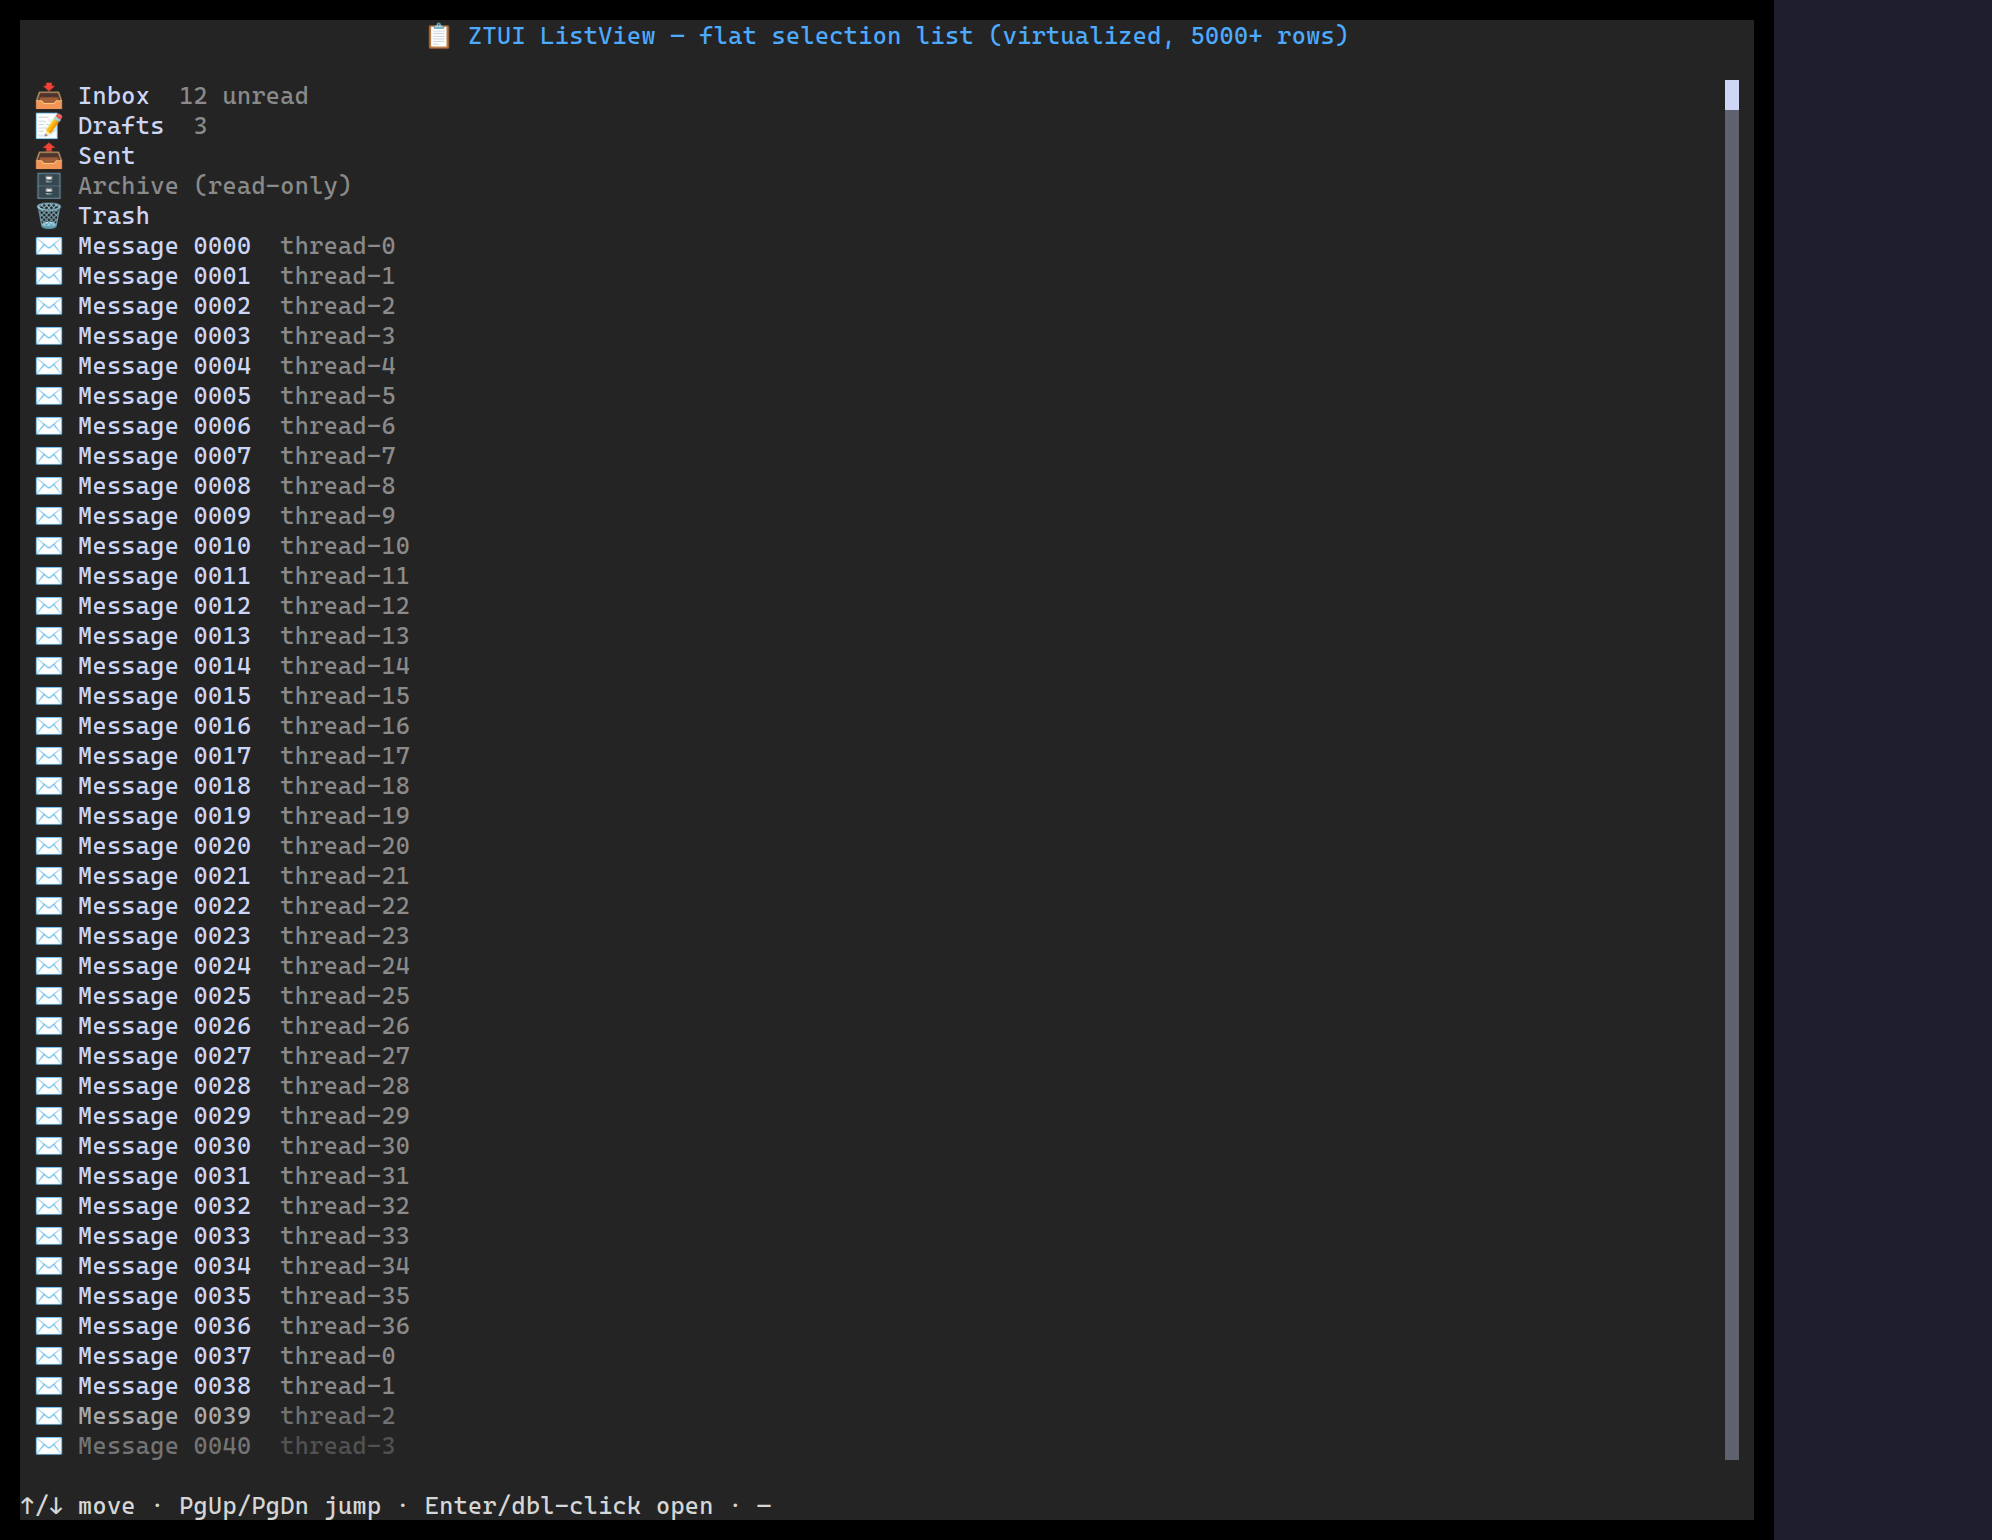
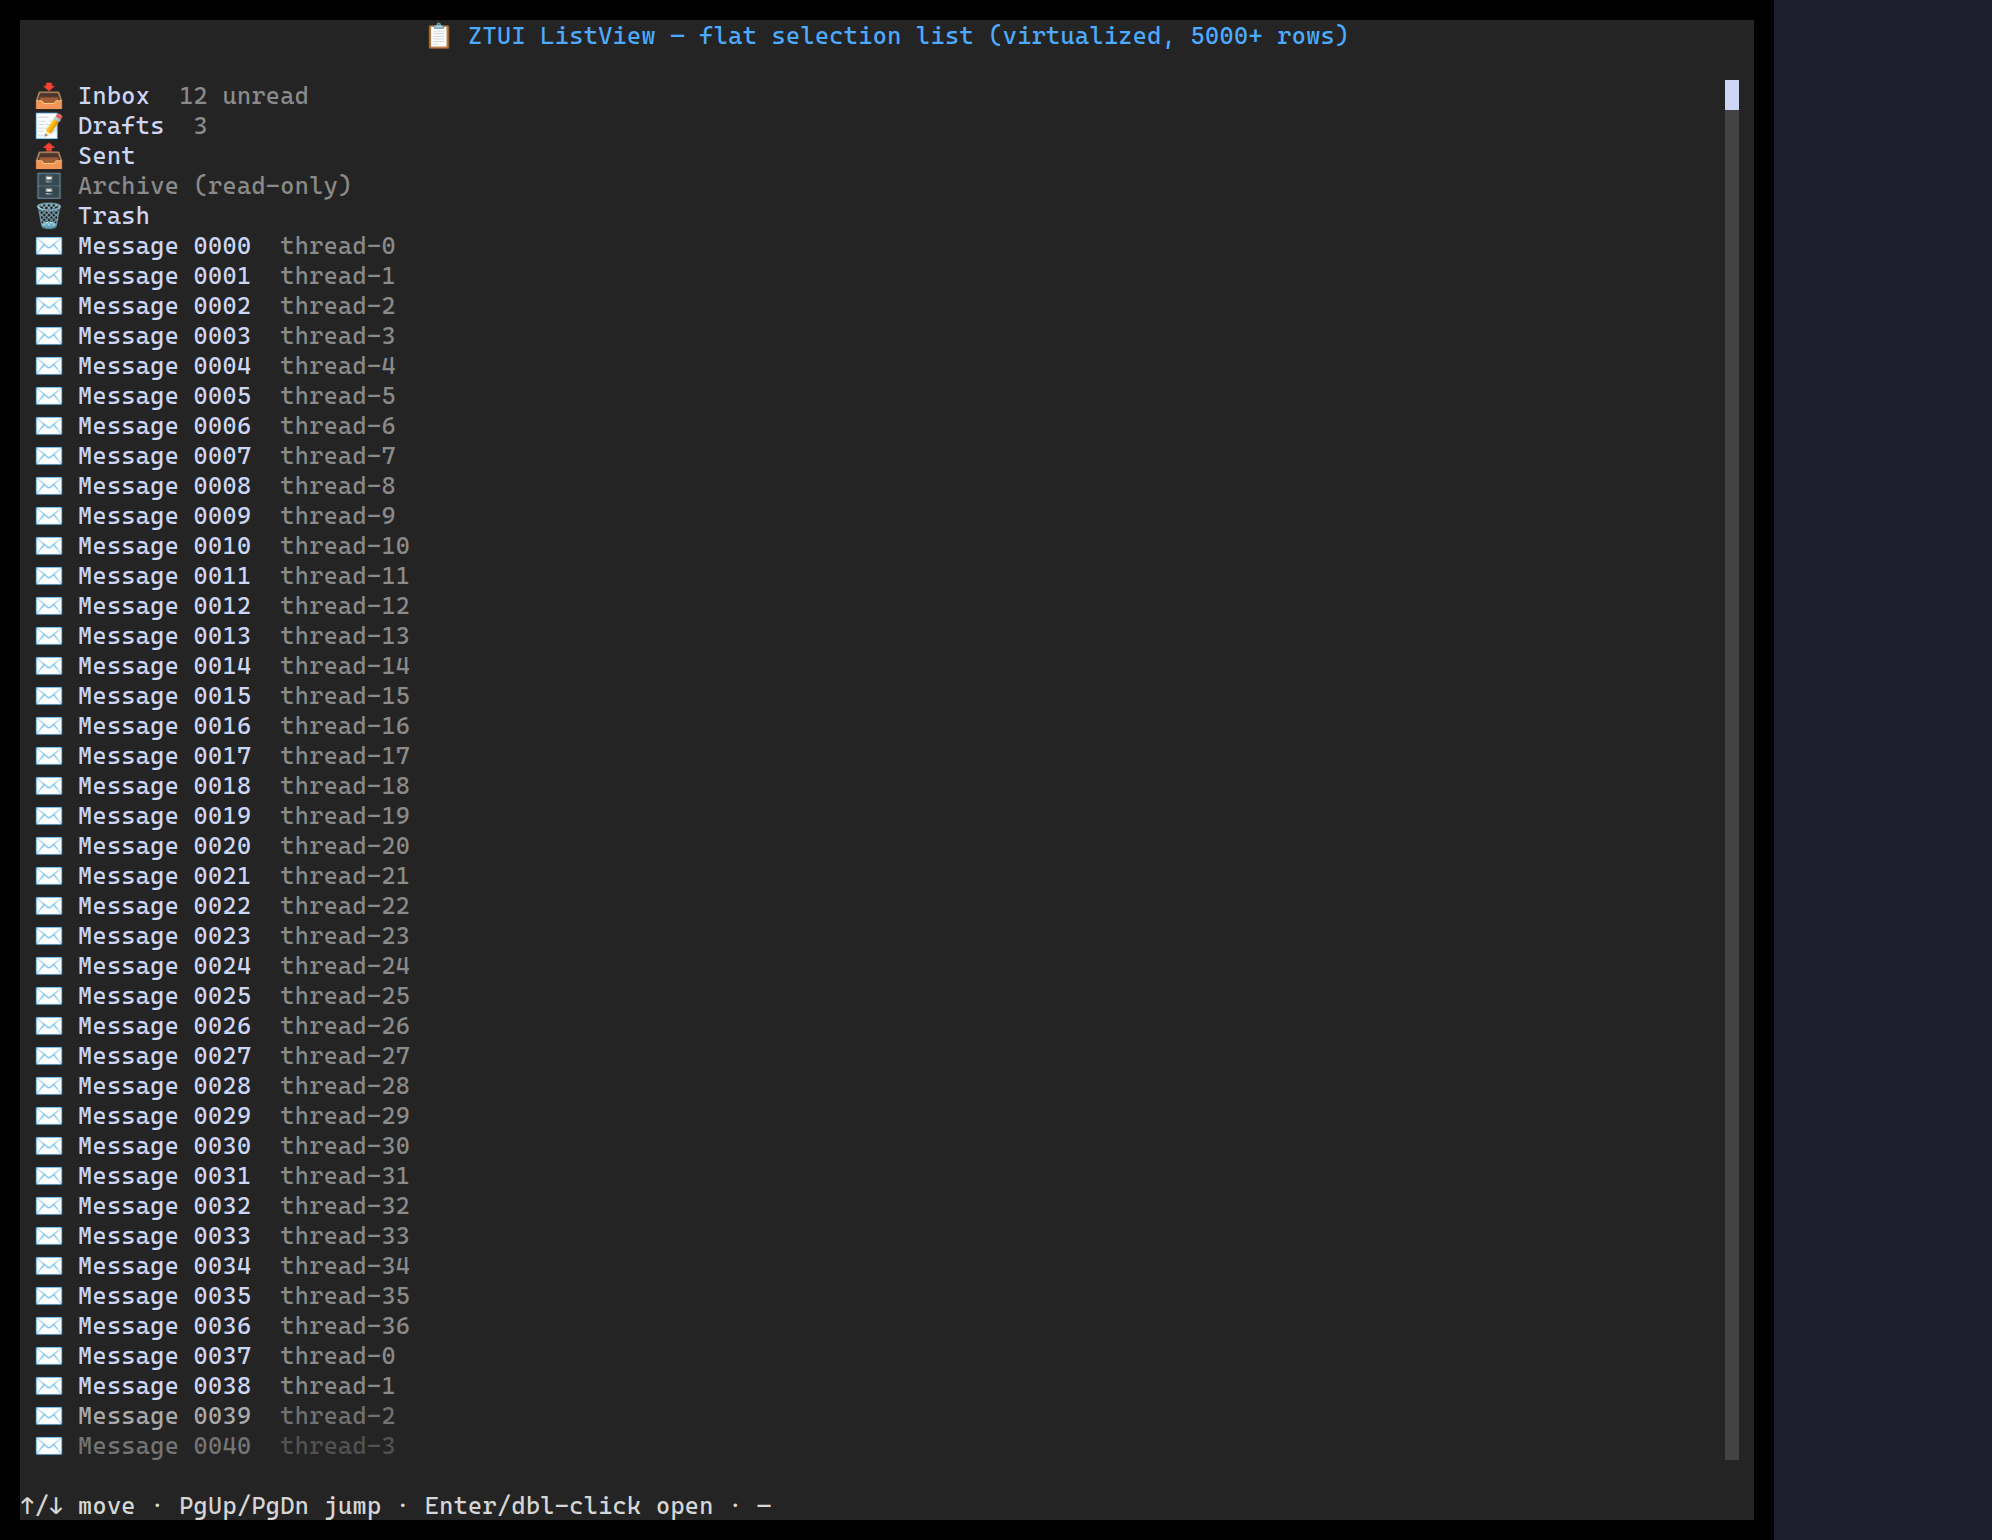
fix(scrollbar): solid dimmed track instead of a shade glyph
The scrollbar track was painted with a `░` light-shade character, which renders
unevenly and speckled across many terminal fonts (it looked poor). Replace it
with a solid background: the track is now a space cell whose background is the
thumb colour blended ~30% toward the widget background — a faint, even solid
gutter that's clearly dimmer than the thumb and adapts to the theme. The thumb
stays a solid `█` bar.

Adds a shared helper `scrollbarTrackStyle(widget)` (src/dom/scrollbar.ts) and
applies it consistently across every scrollbar-drawing widget: the Scrollable
mixin (borderless bars; bordered bars keep their crisp line glyphs) and the five
data widgets that draw their own bar — Table, Tree, ListView, SelectionList and
RichLog.

(The near-left-edge click "leak" reported alongside this is a separate hit-test
off-by-one and is intentionally left for later per the request.)

Tests: ListView asserts the track is a space with a non-default background and no
`░`; the RichLog gutter test now checks the scrollbar cell is a thumb or a solid
track cell. Regenerated the affected gallery screenshots.

Changed region(s): [[0.8404, 0.0623, 0.8715, 0.9351]]

diff --git a/src/dom/scrollbar.ts b/src/dom/scrollbar.ts
@@ -1,0 +1,28 @@
+import { mix, parseColor, rgbStr } from "../render/color.ts";
+import { Style } from "../render/style.ts";
+import type { Widget } from "./widget.ts";
+
+/**
+ * Background-fill style for a scrollbar **track** (the gutter the thumb slides
+ * in). Callers paint it with a space glyph so it reads as a clean solid shade
+ * rather than a `░`/`▒` shaded character — those render unevenly (speckled, with
+ * inconsistent weight) across terminal fonts, which looked poor. The colour is
+ * the thumb colour blended most of the way toward the widget background, giving a
+ * faint solid gutter that stays dimmer than the thumb and adapts to the theme.
+ *
+ * Mirrors how every scrollbar derives its thumb colour (`borderColor`/`color`,
+ * falling back to the `$dimmed` token when unset) so the track always has a
+ * concrete colour to dim, even when the thumb itself uses the terminal default.
+ */
+export function scrollbarTrackStyle(widget: Widget): Style {
+  const cs = widget.computedStyle;
+  let fg = cs.borderColor || cs.color;
+  if (!fg || fg === "default") {
+    fg = widget.app?.cssResolver.resolveVariable(widget, "$dimmed") || "gray";
+  }
+  const bg = widget.findResolvedBackground();
+  const fgRGB = parseColor(fg)?.rgb;
+  const bgRGB = parseColor(bg)?.rgb;
+  const track = fgRGB && bgRGB ? rgbStr(mix(bgRGB, fgRGB, 0.3)) : fg;
+  return new Style({ background: track });
+}

diff --git a/src/dom/scrollable.ts b/src/dom/scrollable.ts
@@ -5,6 +5,7 @@ import { Size } from "../geometry/size.ts";
 import type { ScreenBuffer } from "../render/buffer.ts";
 import { Style } from "../render/style.ts";
 import { fadeScrollEdges } from "./scroll-fade.ts";
+import { scrollbarTrackStyle } from "./scrollbar.ts";
 import { Widget } from "./widget.ts";
 
 /** @internal Mixin base constructor type. */
@@ -387,6 +388,10 @@ export function Scrollable<TBase extends Constructor<Widget>>(
       const fg = this.computedStyle.borderColor || this.computedStyle.color || "default";
       const bg = this.computedStyle.background || "default";
       const style = new Style({ color: fg, background: bg });
+      // Borderless scrollbars fill the track with a solid dimmed background (a
+      // space glyph) instead of a `░` shade character, which renders poorly in
+      // many fonts. Bordered bars keep the crisp line glyphs on the frame.
+      const track = scrollbarTrackStyle(this);
 
       const { showY, showX } = this.scrollbarVisibility();
 
@@ -409,8 +414,9 @@ export function Scrollable<TBase extends Constructor<Widget>>(
 
           for (let y = startY; y <= endY; y++) {
             const isThumb = y >= thumbStart && y < thumbStart + thumbHeight;
-            const char = isThumb ? "█" : hasBorder ? "│" : "░";
-            buffer.setCell(x, y, char, style);
+            if (isThumb) buffer.setCell(x, y, "█", style);
+            else if (hasBorder) buffer.setCell(x, y, "│", style);
+            else buffer.setCell(x, y, " ", track);
           }
         }
       }
@@ -434,8 +440,9 @@ export function Scrollable<TBase extends Constructor<Widget>>(
 
           for (let x = startX; x <= endX; x++) {
             const isThumb = x >= thumbStart && x < thumbStart + thumbWidth;
-            const char = isThumb ? "▀" : hasBorder ? "─" : "░";
-            buffer.setCell(x, y, char, style);
+            if (isThumb) buffer.setCell(x, y, "▀", style);
+            else if (hasBorder) buffer.setCell(x, y, "─", style);
+            else buffer.setCell(x, y, " ", track);
           }
         }
       }

diff --git a/src/test/rich-log.test.tsx b/src/test/rich-log.test.tsx
@@ -136,9 +136,14 @@ describe("RichLog", () => {
     // Wrapped at the gutter width (79), so each entry spans two rows: 79 + 1.
     expect(w.selectableLines().slice(0, 2)).toEqual(["w".repeat(79), "w"]);
 
-    // The scrollbar column (79) must hold a scrollbar glyph, not wrapped text.
-    const row0 = t.text().split("\n")[0];
-    expect(row0[79]).toMatch(/[█░]/);
+    // The scrollbar column (79) must hold the scrollbar, not wrapped text: either
+    // the thumb (█) or a solid track cell (a space with a dimmed background) —
+    // crucially never a content "w".
+    const cell = t.cellAt(79, 0);
+    const isThumb = cell.char === "█";
+    const isTrack =
+      cell.char === " " && !!cell.style.background && cell.style.background !== "default";
+    expect(isThumb || isTrack).toBe(true);
   });
 
   test("selectableLines rebuilds lazily after lines change before a render", async () => {

diff --git a/src/widgets/data/list-view.test.tsx b/src/widgets/data/list-view.test.tsx
@@ -41,6 +41,15 @@ describe("ListView rendering", () => {
     expect(txt).toContain("item-0");
     expect(txt).not.toContain("item-100");
     expect(txt).toContain("█"); // scrollbar thumb
+    // The track is a solid dimmed background (a space), not a `░` shade glyph
+    // (which renders unevenly across terminal fonts).
+    expect(txt).not.toContain("░");
+    const list = findList(t);
+    const content = (list as any).getContentRect();
+    const trackCell = t.cellAt(content.right - 1, content.bottom - 1); // track, below the thumb
+    expect(trackCell.char).toBe(" ");
+    expect(trackCell.style.background).toBeTruthy();
+    expect(trackCell.style.background).not.toBe("default");
   });
 
   test("selected row gets the selection background", async () => {

diff --git a/src/widgets/data/list-view.ts b/src/widgets/data/list-view.ts
@@ -1,6 +1,7 @@
 import { App } from "../../core/app.ts";
 import { selectionDeltaForKey } from "../../dom/key-nav.ts";
 import { fadeScrollEdges } from "../../dom/scroll-fade.ts";
+import { scrollbarTrackStyle } from "../../dom/scrollbar.ts";
 import { Widget } from "../../dom/widget.ts";
 import { Offset } from "../../geometry/offset.ts";
 import { Region } from "../../geometry/region.ts";
@@ -302,9 +303,11 @@ export class ListViewWidget extends Widget {
       color: this.computedStyle.borderColor || this.computedStyle.color || "default",
       background: this.findResolvedBackground(),
     });
+    const track = scrollbarTrackStyle(this);
     for (let yy = trackTop; yy < trackTop + trackH; yy++) {
       const isThumb = yy >= thumbStart && yy < thumbStart + thumbH;
-      buffer.setCell(x, yy, isThumb ? "█" : "░", style);
+      if (isThumb) buffer.setCell(x, yy, "█", style);
+      else buffer.setCell(x, yy, " ", track);
     }
   }
 }

diff --git a/src/widgets/data/rich-log.ts b/src/widgets/data/rich-log.ts
@@ -2,6 +2,7 @@ import { App } from "../../core/app.ts";
 import { runCols } from "../../core/selection.ts";
 import { scrollTopForKey } from "../../dom/key-nav.ts";
 import { fadeScrollEdges } from "../../dom/scroll-fade.ts";
+import { scrollbarTrackStyle } from "../../dom/scrollbar.ts";
 import { Widget } from "../../dom/widget.ts";
 import type { MouseEvent } from "../../driver/driver.ts";
 import { Offset } from "../../geometry/offset.ts";
@@ -363,9 +364,11 @@ export class RichLogWidget extends Widget {
       color: this.computedStyle.borderColor || this.computedStyle.color || "default",
       background: bg,
     });
+    const track = scrollbarTrackStyle(this);
     for (let yy = content.y; yy < content.y + trackH; yy++) {
       const isThumb = yy >= thumbStart && yy < thumbStart + thumbH;
-      buffer.setCell(x, yy, isThumb ? "█" : "░", style);
+      if (isThumb) buffer.setCell(x, yy, "█", style);
+      else buffer.setCell(x, yy, " ", track);
     }
   }
 }

diff --git a/src/widgets/data/selection-list.ts b/src/widgets/data/selection-list.ts
@@ -1,6 +1,7 @@
 import { App } from "../../core/app.ts";
 import { selectionDeltaForKey } from "../../dom/key-nav.ts";
 import { fadeScrollEdges } from "../../dom/scroll-fade.ts";
+import { scrollbarTrackStyle } from "../../dom/scrollbar.ts";
 import { Widget } from "../../dom/widget.ts";
 import { Offset } from "../../geometry/offset.ts";
 import { Region } from "../../geometry/region.ts";
@@ -259,9 +260,11 @@ export class SelectionListWidget extends Widget {
       color: this.computedStyle.borderColor || this.computedStyle.color || "default",
       background: this.findResolvedBackground(),
     });
+    const track = scrollbarTrackStyle(this);
     for (let yy = content.y; yy < content.y + trackH; yy++) {
       const isThumb = yy >= thumbStart && yy < thumbStart + thumbH;
-      buffer.setCell(x, yy, isThumb ? "█" : "░", style);
+      if (isThumb) buffer.setCell(x, yy, "█", style);
+      else buffer.setCell(x, yy, " ", track);
     }
   }
 }

diff --git a/src/widgets/data/table.ts b/src/widgets/data/table.ts
@@ -1,6 +1,7 @@
 import { App } from "../../core/app.ts";
 import { runCols } from "../../core/selection.ts";
 import { fadeScrollEdges } from "../../dom/scroll-fade.ts";
+import { scrollbarTrackStyle } from "../../dom/scrollbar.ts";
 import { Widget } from "../../dom/widget.ts";
 import { Offset } from "../../geometry/offset.ts";
 import { Region } from "../../geometry/region.ts";
@@ -760,9 +761,11 @@ export class TableWidget<Row = any> extends Widget {
     const style = this.baseStyle({
       color: this.computedStyle.borderColor || this.computedStyle.color,
     });
+    const track = scrollbarTrackStyle(this);
     for (let yy = trackTop; yy < trackTop + trackH; yy++) {
       const isThumb = yy >= thumbStart && yy < thumbStart + thumbH;
-      buffer.setCell(x, yy, isThumb ? "█" : "░", style);
+      if (isThumb) buffer.setCell(x, yy, "█", style);
+      else buffer.setCell(x, yy, " ", track);
     }
   }
 }

diff --git a/src/widgets/data/tree.ts b/src/widgets/data/tree.ts
@@ -1,6 +1,7 @@
 import { App } from "../../core/app.ts";
 import { selectionDeltaForKey } from "../../dom/key-nav.ts";
 import { fadeScrollEdges } from "../../dom/scroll-fade.ts";
+import { scrollbarTrackStyle } from "../../dom/scrollbar.ts";
 import { Widget } from "../../dom/widget.ts";
 import { Offset } from "../../geometry/offset.ts";
 import { Region } from "../../geometry/region.ts";
@@ -420,9 +421,11 @@ export class TreeWidget extends Widget {
       color: this.computedStyle.borderColor || this.computedStyle.color || "default",
       background: this.findResolvedBackground(),
     });
+    const track = scrollbarTrackStyle(this);
     for (let yy = trackTop; yy < trackTop + trackH; yy++) {
       const isThumb = yy >= thumbStart && yy < thumbStart + thumbH;
-      buffer.setCell(x, yy, isThumb ? "█" : "░", style);
+      if (isThumb) buffer.setCell(x, yy, "█", style);
+      else buffer.setCell(x, yy, " ", track);
     }
   }
 }